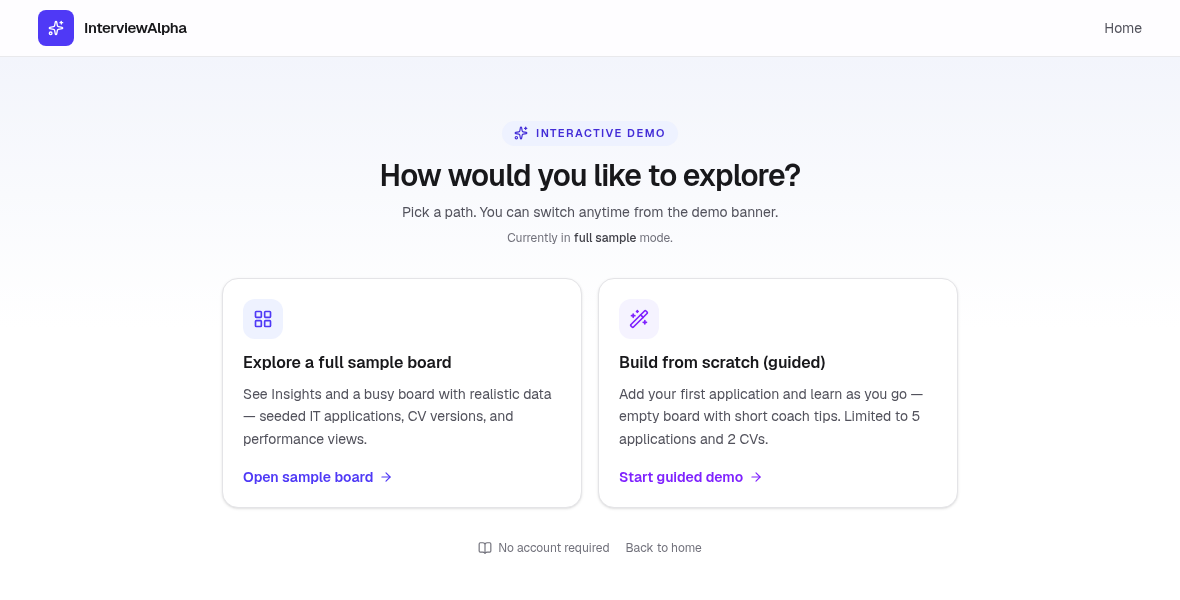
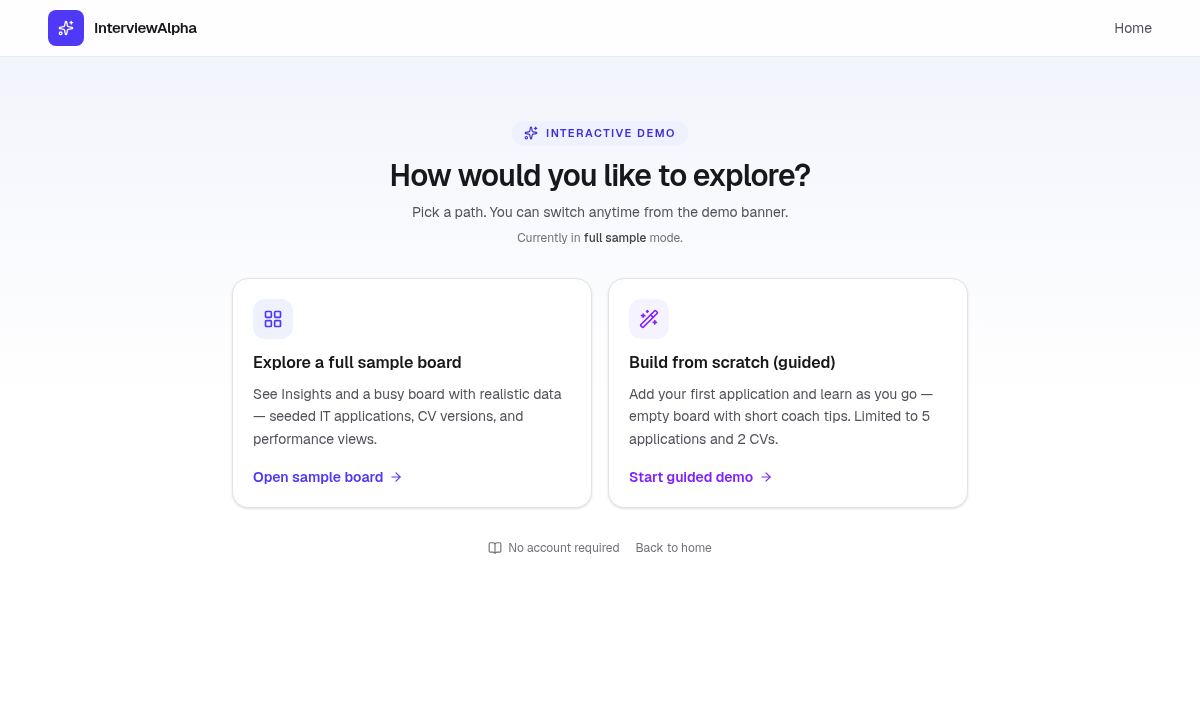
How-to v3: uniform 1200x720 screenshots
All guide figures same canvas size; tighter readable crops; next-action section kept.

diff --git a/howto/how-to-use-interviewalpha.html b/howto/how-to-use-interviewalpha.html
@@ -112,6 +112,10 @@
     figure img {
       display: block;
       width: 100%;
+      max-width: 100%;
+      aspect-ratio: 1200 / 720;
+      object-fit: cover;
+      object-position: top center;
       height: auto;
       border-radius: var(--radius);
       border: 1px solid var(--border);
@@ -165,7 +169,7 @@
   </style>
 </head>
 <body>
-  <div class="preview-banner">PREVIEW v2 - next-action dropdown + reshot screenshots. Not live until Tom approves.</div>
+  <div class="preview-banner">PREVIEW v3 - uniform 1200×720 screenshots + next-action section. Not live until Tom approves.</div>
   <nav class="site-nav" aria-label="Preview navigation">
     <a class="brand" href="#">Interview<span>Alpha</span> Guides</a>
     <span class="meta">How-to · Demo walkthrough</span>
@@ -225,7 +229,7 @@
       <p>Keep the first pass light. You can enrich the card later.</p>
       <figure>
         <img src="images/03-add-or-move-application.png" alt="New application form with Company, Role, and save options" width="1200" height="800" />
-        <figcaption>Figure 3. New application form (two panels): required fields on the left; More details with Next action suggestions open on the right.</figcaption>
+        <figcaption>Figure 3. New application form with More details open and Next action suggestions visible.</figcaption>
       </figure>
 
       <h3>Set a Next action (dropdown)</h3>
